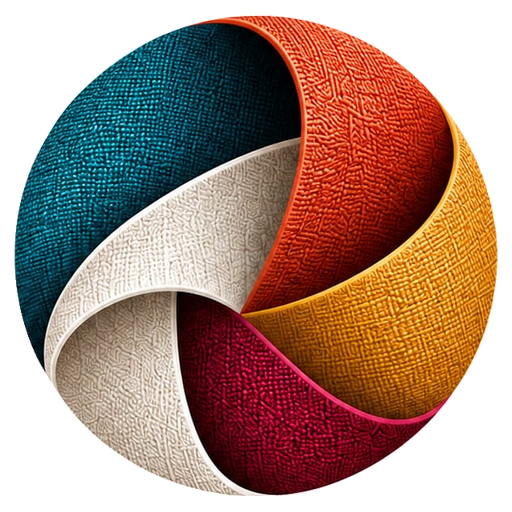
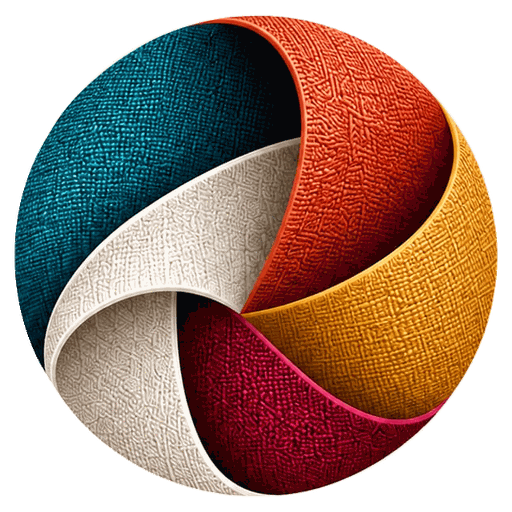
SEO fase 1: canonical, Open Graph, datos estructurados e ícono liviano
- canonical al dominio propio
- og:url, og:site_name y og:image con URL completa
- JSON-LD: url, horario de atención, imagen y logo con URL completa
- icon-512.png comprimido (497 KB -> 107 KB)

Claude-Session: https://claude.ai/code/session_018ZgxEXnfLeZCBHRPou6v2d

diff --git a/index.html b/index.html
@@ -6,12 +6,15 @@
   <title>Factoría Grupo Textil · Fabricantes de indumentaria por mayor y personalizada</title>
   <meta name="description" content="Fabricantes de remeras, musculosas, chombas, buzos y gorras por mayor. Impresión DTF, indumentaria deportiva, merchandising y uniformes para empresas. Envíos a todo el país.">
   <meta name="theme-color" content="#1d5f73">
+  <link rel="canonical" href="https://factoriagrupotextil.com.ar/">
 
   <meta property="og:type" content="website">
   <meta property="og:locale" content="es_AR">
+  <meta property="og:site_name" content="Factoría Grupo Textil">
+  <meta property="og:url" content="https://factoriagrupotextil.com.ar/">
   <meta property="og:title" content="Factoría Grupo Textil · Ideas que dejan huella">
   <meta property="og:description" content="Somos fabricantes. Indumentaria por mayor, DTF, ropa deportiva, merchandising y uniformes. Envíos a todo el país.">
-  <meta property="og:image" content="/assets/brand/og-image.jpg">
+  <meta property="og:image" content="https://factoriagrupotextil.com.ar/assets/brand/og-image.jpg">
   <meta name="twitter:card" content="summary_large_image">
 
   <link rel="icon" href="/favicon.ico" sizes="any">
@@ -38,9 +41,14 @@
     "name": "Factoría Grupo Textil",
     "slogan": "Ideas que dejan huella.",
     "description": "Fabricantes de indumentaria por mayor y personalizada: remeras, chombas, buzos, DTF, ropa deportiva, merchandising y uniformes.",
+    "url": "https://factoriagrupotextil.com.ar/",
     "telephone": "+54 9 11 3901-7744",
-    "image": "/assets/brand/og-image.jpg",
-    "logo": "/assets/brand/icon-512.png",
+    "image": "https://factoriagrupotextil.com.ar/assets/brand/og-image.jpg",
+    "logo": "https://factoriagrupotextil.com.ar/assets/brand/icon-512.png",
+    "openingHoursSpecification": [
+      { "@type": "OpeningHoursSpecification", "dayOfWeek": ["Monday","Tuesday","Wednesday","Thursday","Friday"], "opens": "08:00", "closes": "20:00" },
+      { "@type": "OpeningHoursSpecification", "dayOfWeek": "Saturday", "opens": "08:00", "closes": "14:00" }
+    ],
     "address": { "@type": "PostalAddress", "addressLocality": "Rafael Calzada", "addressRegion": "Buenos Aires", "addressCountry": "AR" },
     "areaServed": "AR",
     "sameAs": [
